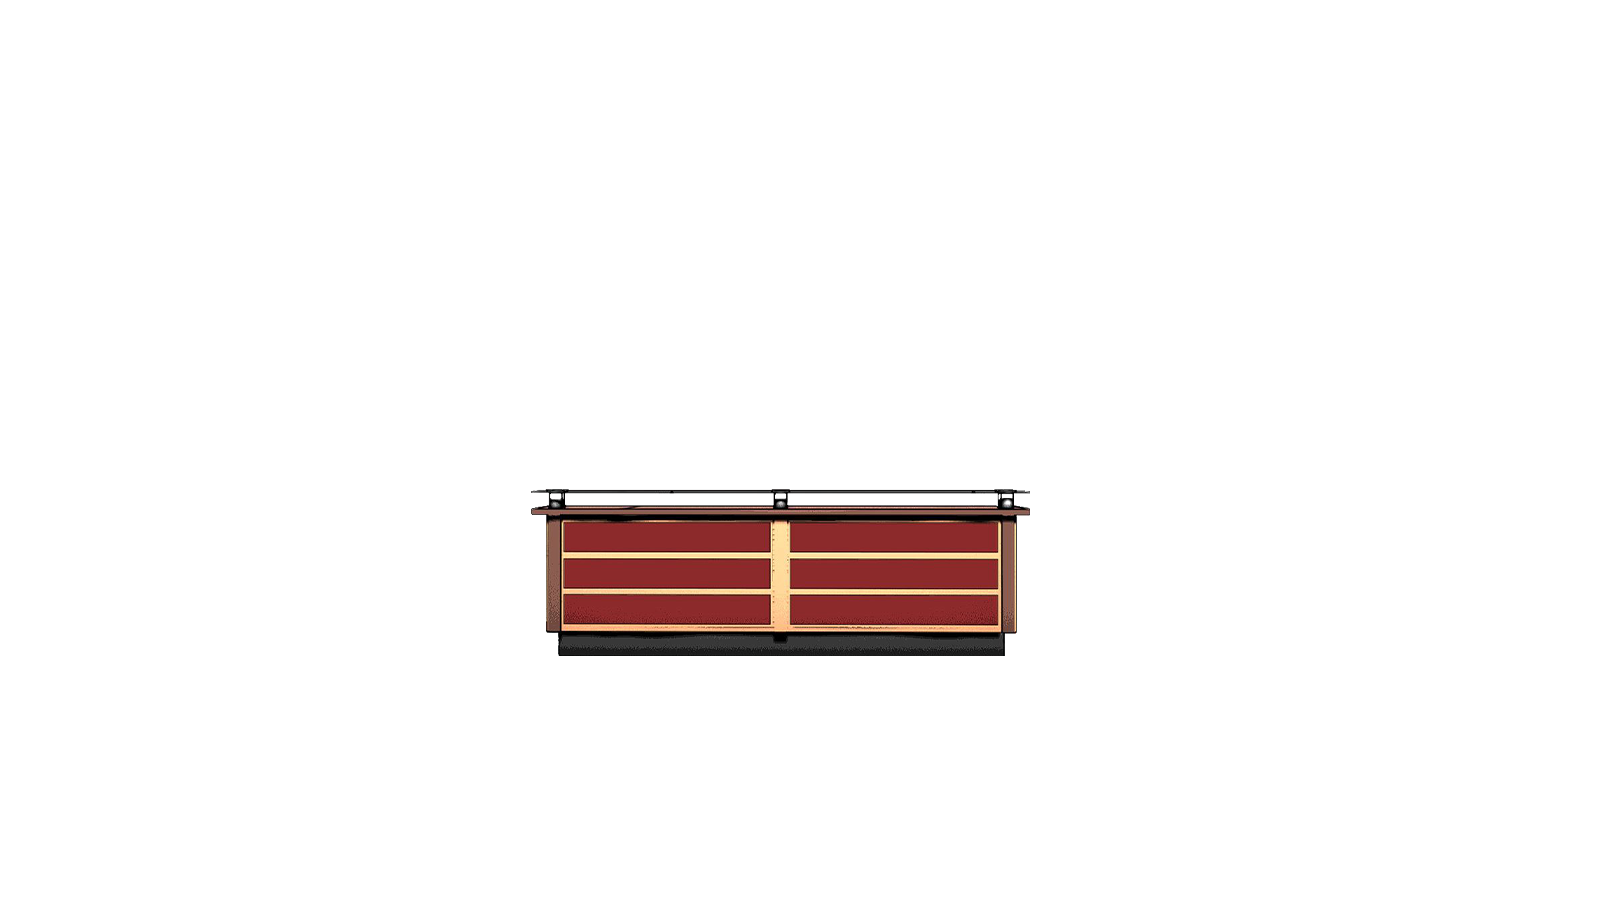
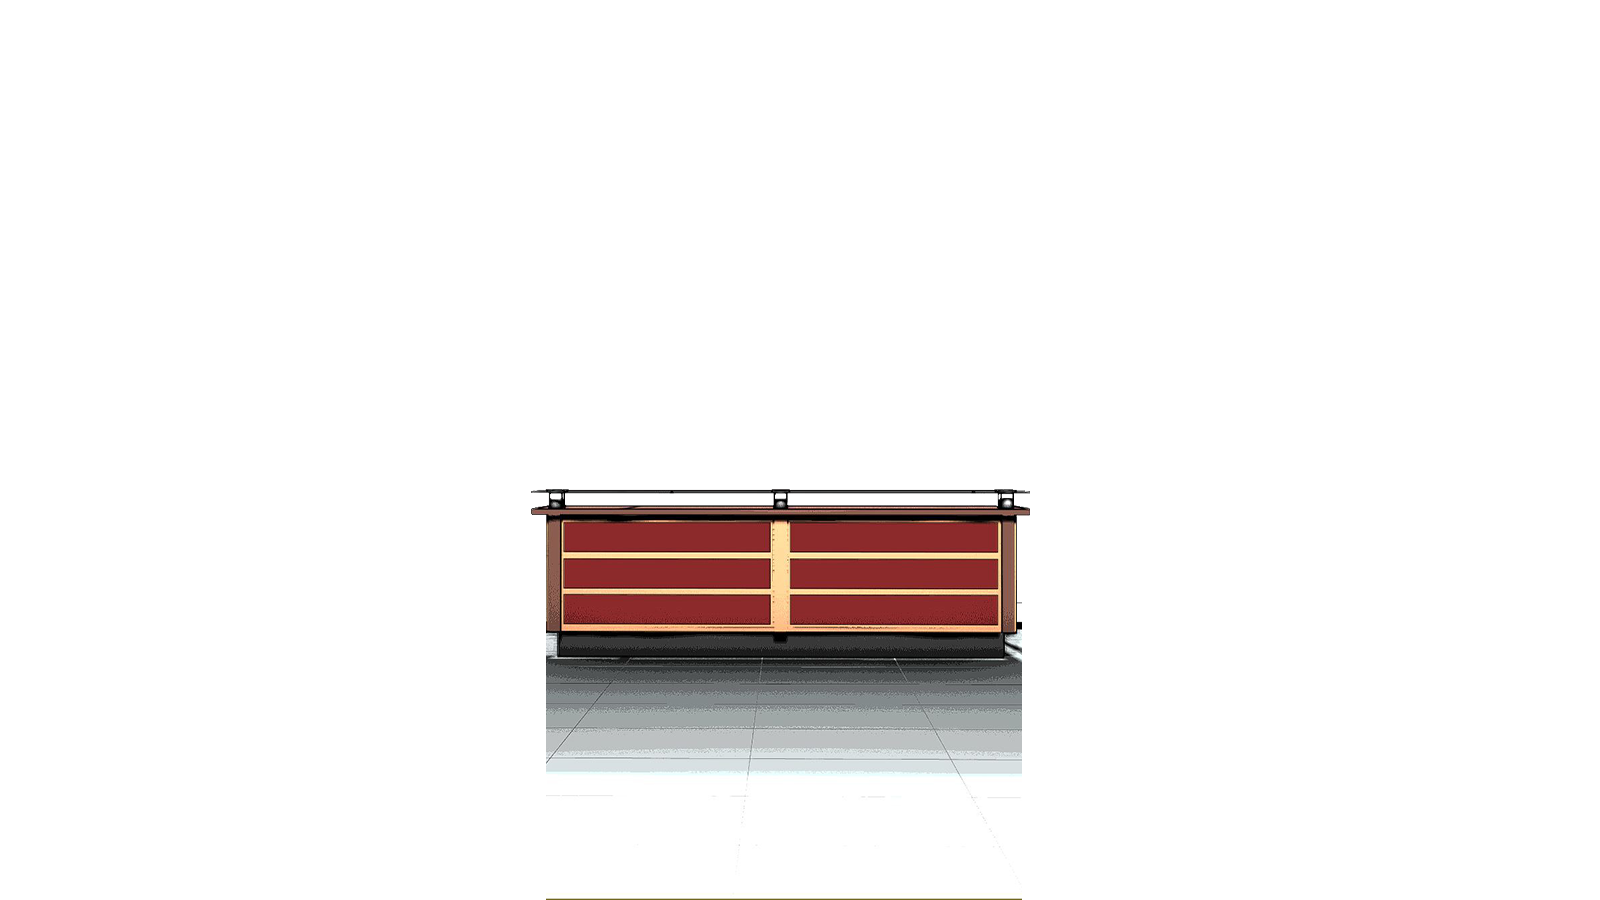
Recepción y otros ajustes

Changed region(s): [[0.3438, 0.6844, 0.6562, 0.8711], [0.3438, 0.9956, 0.6562, 1.0]]

diff --git a/src/game/scenes/house.js b/src/game/scenes/house.js
@@ -14,8 +14,9 @@ export default class House extends LaEntrevistaBaseScene {
     create() {
         super.create();
 
+        this.namespace = "scenes\\house";
         this.nodes = this.cache.json.get("house");
-        this.node = this.dialogManager.readNodes(this, this.nodes, "scenes\\house", "start");
+        this.node = this.dialogManager.readNodes(this, this.nodes, this.namespace, "start");
 
         this.BGS_X = 801;
         this.BGS_Y = 352;
@@ -25,10 +26,10 @@ export default class House extends LaEntrevistaBaseScene {
 
         let img = this.add.image(0, 0, "blankScreen").setOrigin(0, 0);
 
-        this.blackboard.setValue("errors", 0);
+        this.blackboard.set("errors", 0);
         this.dispatcher.add("wrongAnswer", this, () => {
-            let errors = this.blackboard.getValue("errors");
-            this.blackboard.setValue("errors", errors + 1);
+            let errors = this.blackboard.get("errors");
+            this.blackboard.set("errors", errors + 1);
         });
 
         // this.dispatcher.dispatch("offersFound");
@@ -94,19 +95,19 @@ export default class House extends LaEntrevistaBaseScene {
         programmingIcon.on("pointerdown", () => {
             position = "programming";
 
-            this.node = this.dialogManager.readNodes(this, this.nodes, "scenes\\house", "selectProgrammingOffer");
+            this.node = this.dialogManager.readNodes(this, this.nodes, this.namespace, "selectProgrammingOffer");
             this.dialogManager.setNode(this.node);
         });
 
         dataIcon.on("pointerdown", () => {
             position = "dataScience";
 
-            this.node = this.dialogManager.readNodes(this, this.nodes, "scenes\\house", "selectDataOffer");
+            this.node = this.dialogManager.readNodes(this, this.nodes, this.namespace, "selectDataOffer");
             this.dialogManager.setNode(this.node);
         });
 
         this.dispatcher.add("askConfirmation", this, () => {
-            this.node = this.dialogManager.readNodes(this, this.nodes, "scenes\\house", "askConfirmation");
+            this.node = this.dialogManager.readNodes(this, this.nodes, this.namespace, "askConfirmation");
             this.dispatcher.add(DefaultEventNames.clearNodes, this, () => {
                 this.dispatcher.remove(DefaultEventNames.clearNodes, this);
                 this.dialogManager.setNode(this.node);
@@ -116,9 +117,7 @@ export default class House extends LaEntrevistaBaseScene {
         this.dispatcher.add("end", this, () => {
             this.gameManager.blackboard.setValue("position", position);
 
-            // TODO
-            this.gameManager.startGame();
-            // this.gameManager.startCafeteriaScene();
+            this.gameManager.startHallScene();
         });
     }
 
@@ -132,7 +131,7 @@ export default class House extends LaEntrevistaBaseScene {
                     desktop.setVisible(false);
                     desktop.disableInteractive();
 
-                    this.node = this.dialogManager.readNodes(this, this.nodes, "scenes\\house", "search");
+                    this.node = this.dialogManager.readNodes(this, this.nodes, this.namespace, "search");
                     this.dialogManager.setNode(this.node);
                 }
             });

diff --git a/src/game/scenes/hall.js b/src/game/scenes/hall.js
@@ -1,0 +1,50 @@
+import LaEntrevistaBaseScene from "../laEntrevistaBaseScene.js";
+import Character from "../character.js";
+
+export default class Hall extends LaEntrevistaBaseScene {
+    /**
+    * Escena de la casa
+    * @extends LaEntrevistaBaseScene
+    */
+    constructor() {
+        super("Hall", "Hall");
+    }
+
+    create() {
+        super.create();
+
+        let bg = this.add.image(0, 0, "hall").setOrigin(0, 0);
+
+        this.nodes = this.cache.json.get("hall");
+        let namespace = "scenes\\hall";
+
+        let node = this.dialogManager.readNodes(this, this.nodes, namespace, "start");
+
+        let receptionist = new Character(this, 0, 0, 0.33, "Ivan", this.characterConfig.speed, false, () => {
+            this.dialogManager.setNode(node);
+        });
+        receptionist.setOrigin(0.5, 0.5);
+        receptionist.setPosition(775, 525);
+        receptionist.playDefaultAnimation();
+
+        this.add.image(0, 0, "counter").setOrigin(0, 0);
+
+
+        this.dispatcher.add("point", this, () => {
+            // TODO: ANIMACION DE SENALAR
+        });
+
+        this.dispatcher.add("end", this, () => {
+            node = this.dialogManager.readNodes(this, this.nodes, namespace, "repeat");
+
+            let stairs = this.add.rectangle(1350, 453, 500, 660, 0x000, 0);
+            this.setInteractive(stairs);
+            stairs.on("pointerdown", () => {
+                this.gameManager.startCorridorScene();
+            })
+
+        });
+
+        this.dispatcher.dispatch("end")
+    }
+}

diff --git a/src/game/UI/UI.js b/src/game/UI/UI.js
@@ -17,9 +17,9 @@ export default class UI extends BaseUI {
             imgX: this.CANVAS_WIDTH * 0.49,
             imgY: this.CANVAS_HEIGHT * 0.83,
             textX: 180,
-            textY: 705,
-            realWidth: 1250,
-            realHeight: 180,
+            textY: 715,
+            realWidth: 1240,
+            realHeight: 160,
         }
         this.nameBoxConfig = {
             img: "",
@@ -30,13 +30,13 @@ export default class UI extends BaseUI {
         }
         this.textConfig = {
             fontFamily: "lexend-variable",
-            fontSize: 30,
-            fontStyle: "bold"
+            fontSize: 27,
+            fontStyle: 600
         }
         this.nameTextConfig = {
             fontFamily: "lexend-variable",
             fontSize: 40,
-            fontStyle: "bold",
+            fontStyle: 600,
             align: "center"
         }
         this.optionBoxConfig = {
@@ -51,6 +51,7 @@ export default class UI extends BaseUI {
         let QUESTION_TEXT_MARGIN = 10;
         this.optionsQuestionTextConfig = { ...this.textConfig };
         this.optionsQuestionTextConfig.fontSize = this.QUESTION_TEXT_DEFAULT_SIZE;
+        this.optionsQuestionTextConfig.align = "center";
         this.optionsQuestionTextConfig.wordWrap = {
             width: this.CANVAS_WIDTH - QUESTION_TEXT_MARGIN * 2,
             useAdvancedWrap: true

diff --git a/src/framework/utils/blackboard.js b/src/framework/utils/blackboard.js
@@ -4,7 +4,7 @@ export default class Blackboard extends Map {
     * @param {String} key - valor buscado
     * @returns {object} - el objeto buscado en caso de que exista. null en caso contrario
     */
-    getValue(key) {
+    get(key) {
         if (super.has(key)) {
             return super.get(key);
         }
@@ -17,21 +17,12 @@ export default class Blackboard extends Map {
     * @param {Object} value - valor que se le va a poner al valor a cambiar
     * @returns {boolean} - true si se ha sobrescrito un valor. false en caso contrario
     */
-    setValue(key, value) {
+    set(key, value) {
         let exists = false;
         if (super.has(key)) {
             exists = true;
         }
         super.set(key, value);
         return exists;
-    }
-
-    /**
-    * Indica si un valor existe o no en la blackboard
-    * @param {String} key - valor buscado
-    * @returns {boolean} - true si existe el valor. false en caso contrario
-    */
-    hasValue(key) {
-        return super.has(key);
     }
 }

diff --git a/src/game/laEntrevistaBaseScene.js b/src/game/laEntrevistaBaseScene.js
@@ -1,7 +1,6 @@
 import BaseScene from "../framework/scenes/baseScene.js"
 import DialogManager from "./managers/dialogManager.js";
 import GameManager from "./managers/gameManager.js";
-import { setInteractive } from "../framework/utils/misc.js";
 
 export default class LaEntrevistaBaseScene extends BaseScene {
     constructor(name, atlasName) {
@@ -79,7 +78,7 @@ export default class LaEntrevistaBaseScene extends BaseScene {
     * @param {Object} prevConfig - configuracion a la que agregar el parametro del cursor 
     */
     setInteractive(gameObject, config = {}) {
-        setInteractive(gameObject, config);
+        super.setInteractive(gameObject, config);
 
         if (!this.interactableObjects.has(gameObject)) {
             this.interactableObjects.add(gameObject);

diff --git a/src/game/managers/gameManager.js b/src/game/managers/gameManager.js
@@ -28,17 +28,26 @@ export default class GameManager extends Singleton {
 
         // this.startMainMenu();
         // this.startHouseScene();
-        this.startCafeteriaScene();
+        this.startHallScene();
+        // this.startCafeteriaScene();
     }
 
     startMainMenu() {
-        this.sceneManager.changeScene("MainMenu", null, true);
+        this.sceneManager.changeScene("MainMenu", null, false);
     }
 
     startHouseScene() {
         this.sceneManager.changeScene("House", null, false);
     }
 
+    startHallScene() {
+        this.sceneManager.changeScene("Hall", null, false);
+    }
+
+    startCorridorScene() {
+        this.startMainMenu();
+    }
+    
     startCafeteriaScene() {
         this.sceneManager.changeScene("Cafeteria", null, true);
     }

diff --git a/src/game/scenes/cafeteria.js b/src/game/scenes/cafeteria.js
@@ -72,7 +72,7 @@ export default class Cafeteria extends LaEntrevistaBaseScene {
         let manArrive = false;
         let continueConversation = () => {
             let value = "womenConversationEnded";
-            if (manArrive && this.blackboard.hasValue(value) && this.blackboard.getValue(value)) {
+            if (manArrive && this.blackboard.hasValue(value) && this.blackboard.get(value)) {
                 this.dialogManager.clearNodes();
                 this.dialogManager.setNode(trioNode);
             }

diff --git a/src/game.js b/src/game.js
@@ -3,6 +3,7 @@ import UI from "./game/UI/UI.js";
 
 import MainMenu from "./game/scenes/mainMenu.js";
 import House from "./game/scenes/house.js";
+import Hall from "./game/scenes/hall.js"
 import Cafeteria from "./game/scenes/cafeteria.js";
 
 const MAX_W = 1600, MAX_H = 900, MIN_W = 320, MIN_H = 240;
@@ -21,6 +22,7 @@ const CONFIG = {
         // Test,
         MainMenu,
         House,
+        Hall,
         Cafeteria,
 
         UI,

diff --git a/src/game/scenes/bootScene.js b/src/game/scenes/bootScene.js
@@ -18,7 +18,8 @@ export default class BootScene extends BaseBootScene {
         this.dialogsAndNamespaces = [
             "scenes/house",
             "scenes/test",
-            "scenes/cafeteria"
+            "scenes/cafeteria",
+            "scenes/hall"
         ];
         this.onlyNamespaces = [
             "names",

diff --git a/src/framework/scenes/baseScene.js b/src/framework/scenes/baseScene.js
@@ -4,7 +4,6 @@ import LocalizationManager from "../managers/localizationManager.js";
 import EventDispatcher from "../managers/eventDispatcher.js";
 
 import { setInteractive } from "../utils/misc.js";
-import DefaultEventNames from "../utils/eventNames.js";
 
 export default class BaseScene extends Phaser.Scene {
     /**

diff --git a/src/game/managers/dialogManager.js b/src/game/managers/dialogManager.js
@@ -27,9 +27,9 @@ export default class DialogManager extends Singleton {
             this.currNode = node;
             this.currNode.processNode();
         }
-        else {
-            console.log(node)
-        }
+        // else {
+        //     console.log(node)
+        // }
     }
 
     clearNodes() {
